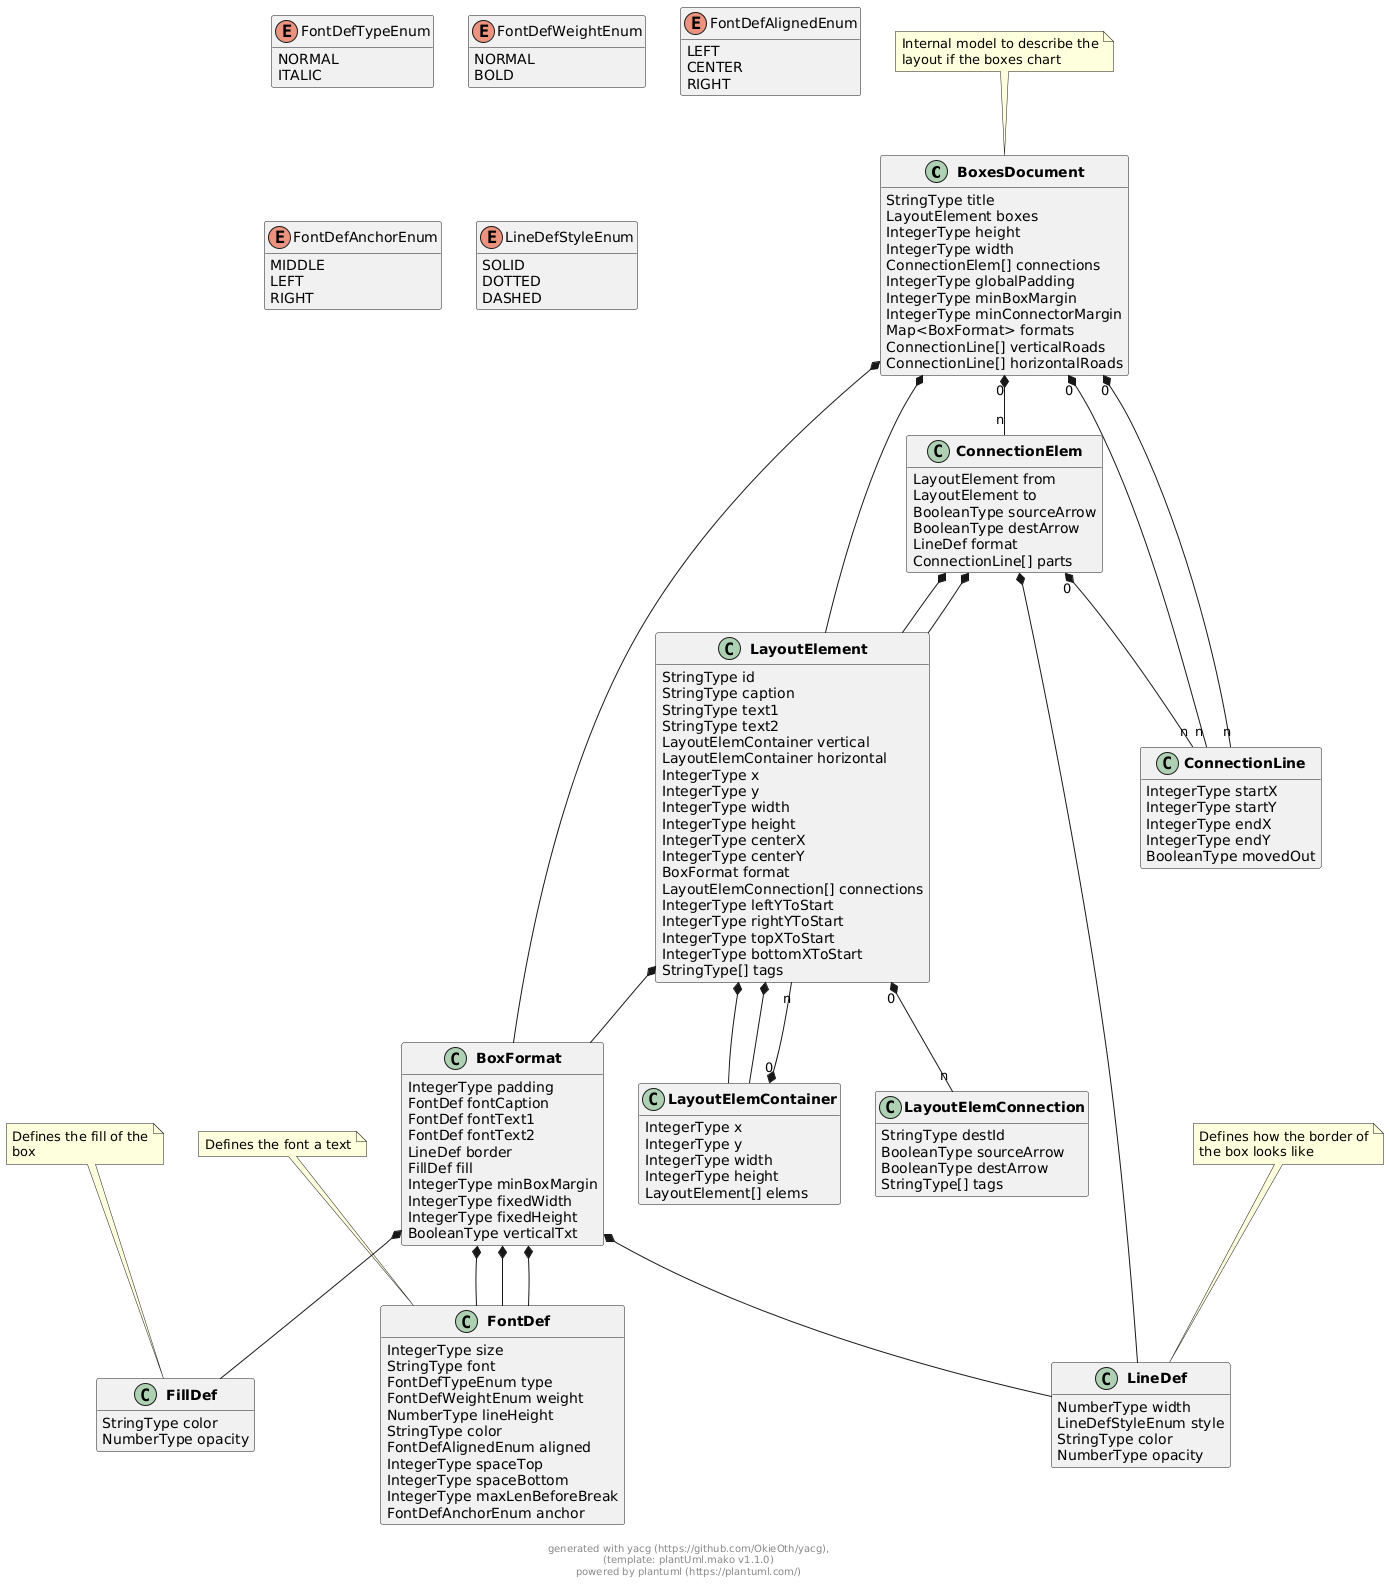
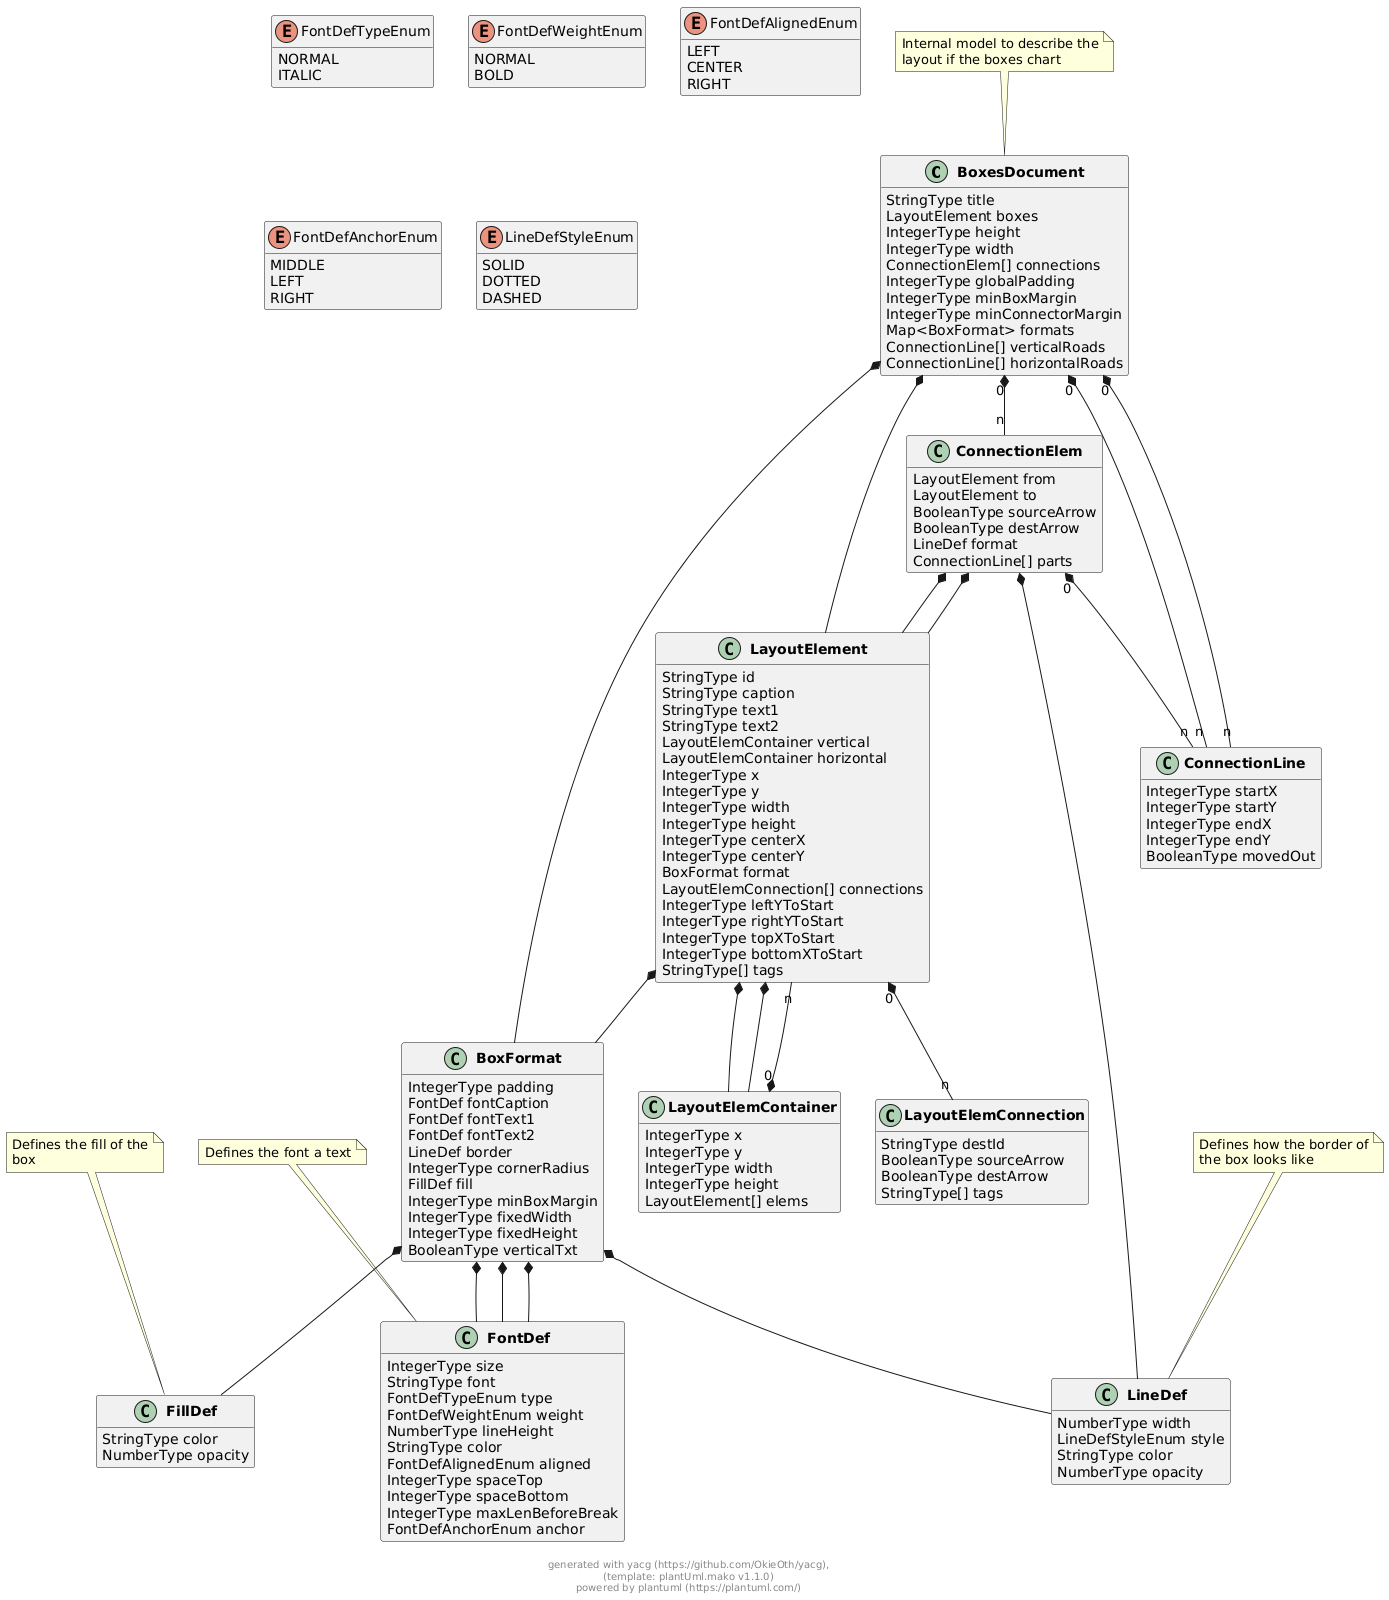
add svg-ui

diff --git a/pkg/types/boxes/boxestype_impl.go b/pkg/types/boxes/boxestype_impl.go
@@ -108,13 +108,14 @@ func (doc *BoxesDocument) AdjustDocHeight(le *LayoutElement, currentMax int) int
 func (b *LayoutElement) Draw(drawing types.Drawing) error {
 	if b.Format != nil {
 		f := types.RectWithTextFormat{
-			FontCaption: b.Format.FontCaption,
-			FontText1:   b.Format.FontText1,
-			FontText2:   b.Format.FontText2,
-			Padding:     b.Format.Padding,
-			Border:      b.Format.Border,
-			Fill:        b.Format.Fill,
-			VerticalTxt: b.Format.VerticalTxt,
+			FontCaption:  b.Format.FontCaption,
+			FontText1:    b.Format.FontText1,
+			FontText2:    b.Format.FontText2,
+			Padding:      b.Format.Padding,
+			Border:       b.Format.Border,
+			Fill:         b.Format.Fill,
+			VerticalTxt:  b.Format.VerticalTxt,
+			CornerRadius: b.Format.CornerRadius,
 		}
 		if err := drawing.DrawRectWithText(b.Id, b.Caption, b.Text1, b.Text2, b.X, b.Y, b.Width, b.Height, f); err != nil {
 			return fmt.Errorf("Error drawing element %s: %w", b.Id, err)

diff --git a/pkg/boxesimpl/boxesdocfactory.go b/pkg/boxesimpl/boxesdocfactory.go
@@ -42,6 +42,7 @@ func initBoxFormat(f *boxes.Format) boxes.BoxFormat {
 	var verticalTxt bool
 	padding := types.GlobalPadding
 	boxMargin := types.GlobalMinBoxMargin
+	var fixedHeight, fixedWidth, cornerRadius *int
 	if f != nil {
 		fontCaption = f.FontCaption
 		fontText1 = f.FontText1
@@ -61,6 +62,9 @@ func initBoxFormat(f *boxes.Format) boxes.BoxFormat {
 		if f.VerticalTxt != nil {
 			verticalTxt = *f.VerticalTxt
 		}
+		fixedHeight = f.FixedHeight
+		fixedWidth = f.FixedWidth
+		cornerRadius = f.CornerRadius
 	}
 
 	return boxes.BoxFormat{
@@ -71,9 +75,10 @@ func initBoxFormat(f *boxes.Format) boxes.BoxFormat {
 		FontText2:    types.InitFontDef(fontText2, "monospace", 8, false, true, 10),
 		Border:       border,
 		Fill:         fill,
-		FixedWidth:   f.FixedWidth,
-		FixedHeight:  f.FixedHeight,
+		FixedWidth:   fixedWidth,
+		FixedHeight:  fixedHeight,
 		VerticalTxt:  verticalTxt,
+		CornerRadius: cornerRadius,
 	}
 }
 

diff --git a/pkg/svg/svg.go b/pkg/svg/svg.go
@@ -343,6 +343,16 @@ func (svg *SVG) RectWithIdAndAdditional(additional, id string, x int, y int, w i
 	}
 }
 
+// Rect draws a rounded rectangle with upper left-hand corner at x,y, with width w, and height h, with optional style
+// Standard Reference: http://www.w3.org/TR/SVG11/shapes.html#RectElement
+func (svg *SVG) RoundedRectWithIdAndAdditional(additional, id string, x int, y int, w int, h, cornerRadius int, s ...string) {
+	if id == "" {
+		svg.Roundrect(x, y, w, h, cornerRadius, cornerRadius, s...)
+	} else {
+		svg.printf(`<rect %s id="%s" %s rx="%d" ry="%d" %s`, additional, id, dim(x, y, w, h), cornerRadius, cornerRadius, endstyle(s, emptyclose))
+	}
+}
+
 // CenterRect draws a rectangle with its center at x,y, with width w, and height h, with optional style
 func (svg *SVG) CenterRect(x int, y int, w int, h int, s ...string) {
 	svg.Rect(x-(w/2), y-(h/2), w, h, s...)

diff --git a/pkg/svgdrawing/svgdrawing.go b/pkg/svgdrawing/svgdrawing.go
@@ -373,9 +373,18 @@ func (d *SvgDrawing) DrawRectWithText(id, caption, text1, text2 string, x, y int
 			attr += fmt.Sprintf("stroke: %s;stroke-Width: %f", c, w)
 		}
 		if id != "" {
-			d.canvas.RectWithIdAndAdditional("onclick=\"window.shapeClick(event)\"", id, x, y, width, height, attr)
+			if format.CornerRadius != nil {
+				d.canvas.RoundedRectWithIdAndAdditional("onclick=\"window.shapeClick(event)\"", id, x, y, width, height, *format.CornerRadius, attr)
+			} else {
+				d.canvas.RectWithIdAndAdditional("onclick=\"window.shapeClick(event)\"", id, x, y, width, height, attr)
+			}
 		} else {
-			d.canvas.Rect(x, y, width, height, attr)
+			if format.CornerRadius != nil {
+				d.canvas.Roundrect(x, y, width, height, *format.CornerRadius, *format.CornerRadius, attr)
+			} else {
+				d.canvas.Rect(x, y, width, height, attr)
+			}
+
 		}
 	}
 

diff --git a/pkg/types/boxes/boxesdoc.go b/pkg/types/boxes/boxesdoc.go
@@ -259,6 +259,9 @@ type BoxFormat struct {
 
     Border *types.LineDef  `yaml:"border,omitempty"`
 
+    // radius of the box corners in pixel
+    CornerRadius *int  `yaml:"cornerRadius,omitempty"`
+
     Fill *types.FillDef  `yaml:"fill,omitempty"`
 
     // Minimum margin between boxes
@@ -285,6 +288,7 @@ func CopyBoxFormat(src *BoxFormat) *BoxFormat {
     ret.FontText1 = *types.CopyFontDef(&src.FontText1)
     ret.FontText2 = *types.CopyFontDef(&src.FontText2)
     ret.Border = types.CopyLineDef(src.Border)
+    ret.CornerRadius = src.CornerRadius
     ret.Fill = types.CopyFillDef(src.Fill)
     ret.MinBoxMargin = src.MinBoxMargin
     ret.FixedWidth = src.FixedWidth

diff --git a/pkg/types/boxes/boxes.go b/pkg/types/boxes/boxes.go
@@ -168,6 +168,9 @@ type Format struct {
 
     // Minimum margin between boxes
     BoxMargin *int  `yaml:"boxMargin,omitempty"`
+
+    // radius of the box corners in pixel
+    CornerRadius *int  `yaml:"cornerRadius,omitempty"`
 }
 
 
@@ -186,6 +189,7 @@ func CopyFormat(src *Format) *Format {
     ret.Fill = types.CopyFillDef(src.Fill)
     ret.Padding = src.Padding
     ret.BoxMargin = src.BoxMargin
+    ret.CornerRadius = src.CornerRadius
 
     return &ret
 }

diff --git a/pkg/types/drawing.go b/pkg/types/drawing.go
@@ -32,6 +32,8 @@ type RectWithTextFormat struct {
 
 	// If true, the text will be displayed vertically
 	VerticalTxt bool `yaml:"verticalTxt"`
+
+	CornerRadius *int `yaml:"cornerRadius"`
 }
 
 type Drawing interface {
